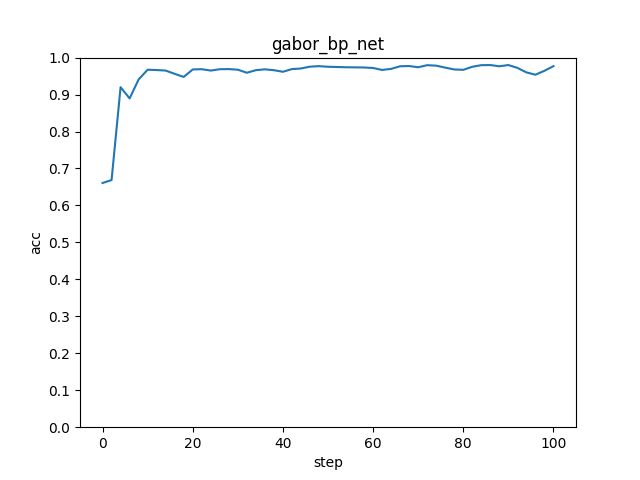
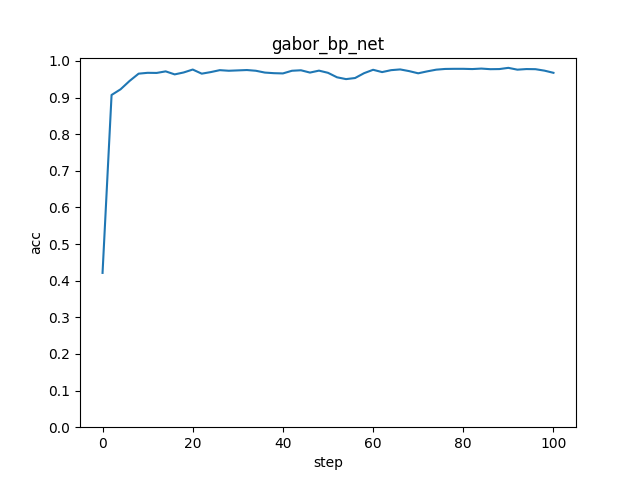
add

diff --git a/experiment/plot/main.py b/experiment/plot/main.py
@@ -4,6 +4,7 @@ from experiment.trainer.cnn_cluster_rl_trainer import CnnClusterRlTrainer
 from experiment.trainer.cnn_cluster_avg_rl_trainer import CnnClusterAvgRlTrainer
 from experiment.trainer.cnn_cluster_diff_rl_trainer import CnnClusterDiffRlTrainer
 import numpy as np
+import torch
 
 batch_size = 40
 digits = np.array([2, 3, 4])
@@ -16,6 +17,9 @@ synaptic_th = 0.8  # 中间层和输出层之间连接矩阵的突触阈值
 use_gpu = True
 early_stopping_step = 100
 valid_interval_step = 2
+torch.manual_seed(1)
+torch.cuda.manual_seed(1)
+np.random.seed(1)
 cnn_bp_trainer = CnnBpTrainer(batch_size,
                               digits,
                               epoch,
@@ -63,7 +67,7 @@ cnn_cluster_diff_rl_trainer = CnnClusterDiffRlTrainer(batch_size,
                                                       early_stopping_step,
                                                       valid_interval_step)
 cnn_bp_trainer.run_training()
-# cnn_cluster_bp_trainer.run_training()
-# cnn_cluster_rl_trainer.run_training()
-# cnn_cluster_avg_rl_trainer.run_training()
-# cnn_cluster_diff_rl_trainer.run_training()
+cnn_cluster_bp_trainer.run_training()
+cnn_cluster_rl_trainer.run_training()
+cnn_cluster_avg_rl_trainer.run_training()
+cnn_cluster_diff_rl_trainer.run_training()
